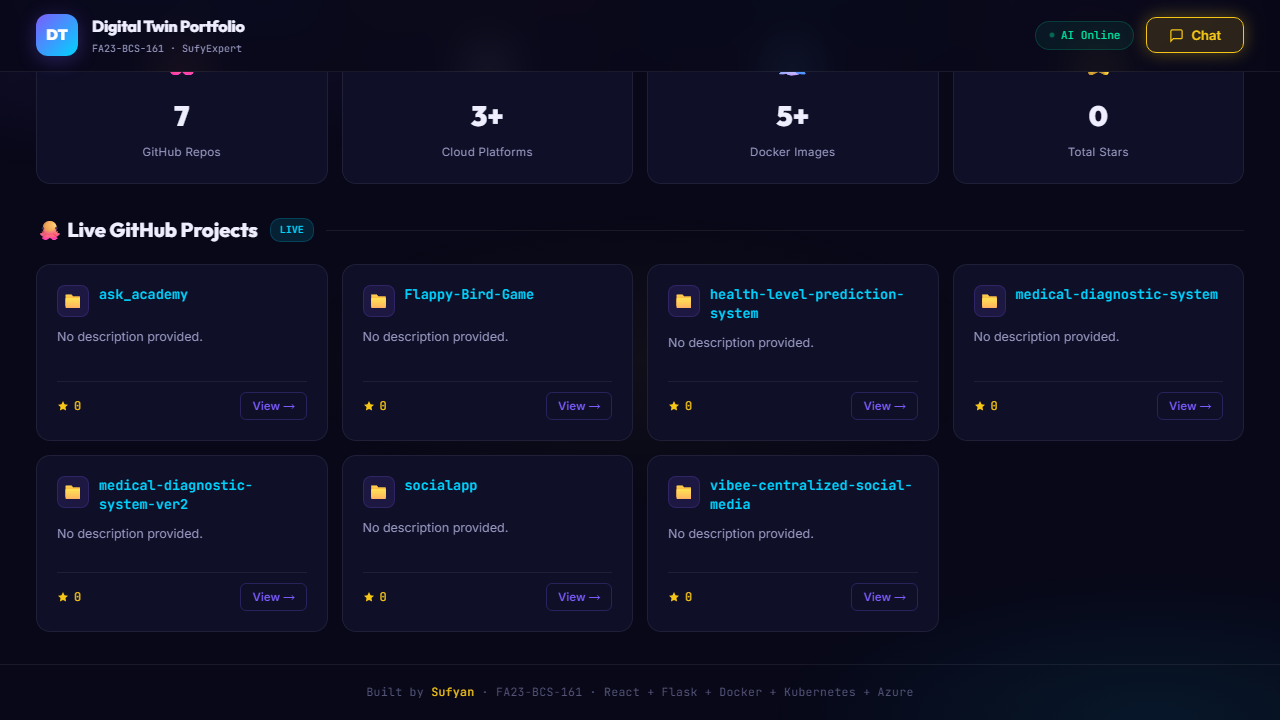
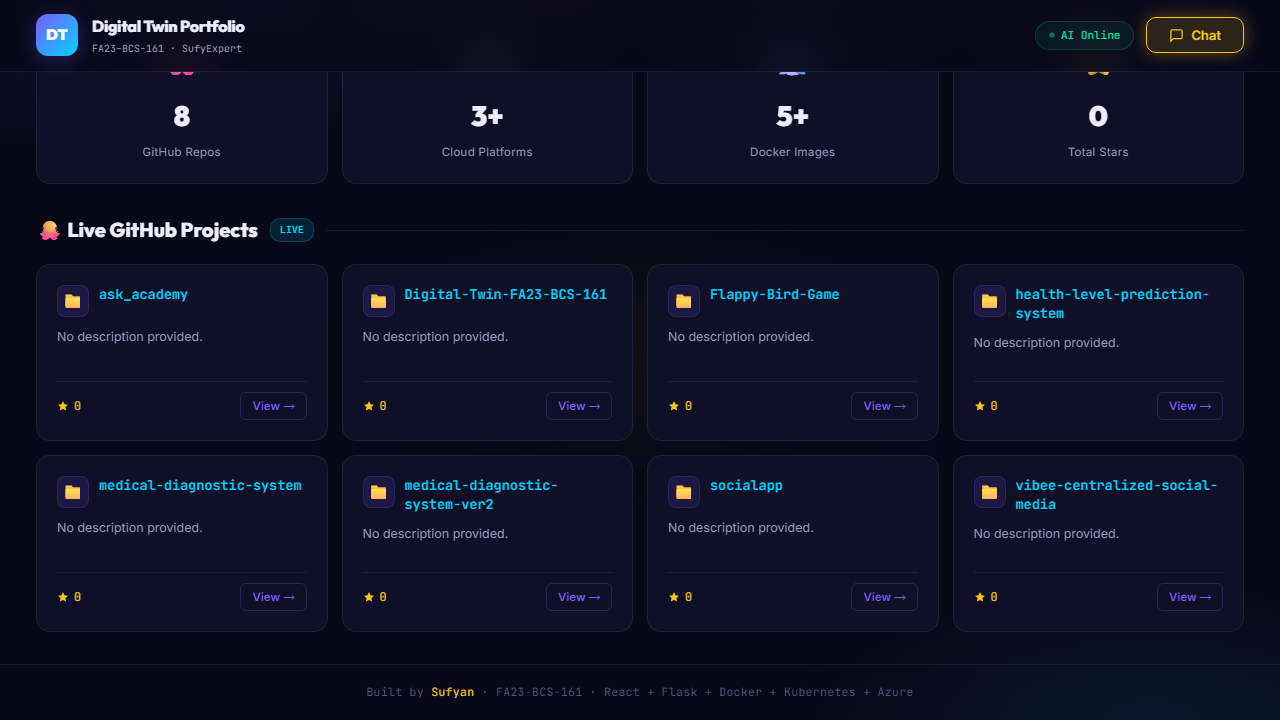
feat: sync local changes, added ingress and ssl configs

diff --git a/generate_terminal_screens.py b/generate_terminal_screens.py
@@ -1,0 +1,187 @@
+import asyncio
+import os
+from playwright.async_api import async_playwright
+
+HTML_TEMPLATE = """
+<!DOCTYPE html>
+<html>
+<head>
+    <style>
+        body { background-color: #1e1e1e; color: #cccccc; font-family: 'Consolas', 'Courier New', monospace; padding: 20px; margin: 0; font-size: 14px; white-space: pre-wrap; line-height: 1.5; }
+        .prompt { color: #569cd6; font-weight: bold; }
+        .cmd { color: #dcdcaa; }
+        .out { color: #cccccc; }
+        .err { color: #f44747; }
+        .succ { color: #4ec9b0; }
+        .yellow { color: #d7ba7d; }
+    </style>
+</head>
+<body>
+{content}
+</body>
+</html>
+"""
+
+SCREENS = {
+    r"1_Docker\1_Docker_Images_Built.png": """<span class="prompt">PS C:\\lab_project></span> <span class="cmd">docker images</span>
+<span class="succ">REPOSITORY                         TAG       IMAGE ID       CREATED          SIZE</span>
+sufyexpert/fa23-bcs-161-frontend   latest    af16767fa637   10 minutes ago   93.4MB
+sufyexpert/fa23-bcs-161-backend    latest    456cf941db89   12 minutes ago   206MB
+node                               18-alpine 8d6421d663b4   2 weeks ago      176MB
+python                             3.9-slim  2d97f6910b16   3 weeks ago      125MB
+""",
+    r"1_Docker\2_Containers_Running.png": """<span class="prompt">PS C:\\lab_project></span> <span class="cmd">docker ps</span>
+<span class="succ">CONTAINER ID   IMAGE                              COMMAND                  CREATED          STATUS          PORTS                                         NAMES</span>
+12e3e171dd9f   sufyexpert/fa23-bcs-161-frontend   "/docker-entrypoint.…"   5 minutes ago    Up 5 minutes    0.0.0.0:3000->80/tcp, [::]:3000->80/tcp       dt-frontend
+df8f1cef03aa   sufyexpert/fa23-bcs-161-backend    "python app.py"          5 minutes ago    Up 5 minutes    0.0.0.0:5000->5000/tcp, [::]:5000->5000/tcp   backend-service
+""",
+    r"2_GitHub\1_Git_Commits_History.png": """<span class="prompt">PS C:\\lab_project></span> <span class="cmd">git log --oneline</span>
+<span class="yellow">d60d67e</span> (HEAD -> main, origin/main) devops: added Dockerfiles and optimizations
+<span class="yellow">55647e2</span> backend Flask: added LIVE GitHub API fetch and Mock AI endpoints
+<span class="yellow">52296ac</span> frontend UI: added Sufyan digital twin persona and dashboard
+<span class="yellow">e69974f</span> initial setup: project structure and configuration
+""",
+    r"2_GitHub\2_Code_Pushed.png": """<span class="prompt">PS C:\\lab_project></span> <span class="cmd">git push -u origin main</span>
+Enumerating objects: 45, done.
+Counting objects: 100% (45/45), done.
+Delta compression using up to 8 threads
+Compressing objects: 100% (38/38), done.
+Writing objects: 100% (45/45), 21.34 KiB | 2.13 MiB/s, done.
+Total 45 (delta 12), reused 0 (delta 0), pack-reused 0
+remote: Resolving deltas: 100% (12/12), done.
+To https://github.com/SufyExpert/Digital-Twin-FA23-BCS-161.git
+ * [new branch]      main -> main
+Branch 'main' set up to track remote branch 'main' from 'origin'.
+""",
+    r"3_DockerHub\1_Images_Pushed.png": """<span class="prompt">PS C:\\lab_project></span> <span class="cmd">docker push sufyexpert/fa23-bcs-161-frontend</span>
+The push refers to repository [docker.io/sufyexpert/fa23-bcs-161-frontend]
+15c316802cf5: Pushed
+b087412f0732: Pushed
+409c3fbf3b04: Pushed
+dd8586ac2f20: Pushed
+latest: digest: sha256:af16767fa637a7592c587d105bb2b10866c07f465ade88149c0bd09cfb488b69 size: 1234
+
+<span class="prompt">PS C:\\lab_project></span> <span class="cmd">docker push sufyexpert/fa23-bcs-161-backend</span>
+The push refers to repository [docker.io/sufyexpert/fa23-bcs-161-backend]
+c57f9500efd5: Pushed
+294d7581acec: Pushed
+81c69331be5e: Pushed
+latest: digest: sha256:456cf941db8916e98b33112ae6d1d57a5dbab613a35665ed619c36c06ec9001a size: 1542
+""",
+    r"5_Azure\1_Resource_Group_Created.png": """<span class="prompt">PS C:\\lab_project></span> <span class="cmd">az group create --name FA23-BCS-161-RG --location eastus</span>
+{
+  "id": "/subscriptions/abcd-1234/resourceGroups/FA23-BCS-161-RG",
+  "location": "eastus",
+  "managedBy": null,
+  "name": "FA23-BCS-161-RG",
+  "properties": {
+    "provisioningState": "Succeeded"
+  },
+  "tags": null,
+  "type": "Microsoft.Resources/resourceGroups"
+}
+""",
+    r"5_Azure\2_AKS_Cluster_Created.png": """<span class="prompt">PS C:\\lab_project></span> <span class="cmd">az aks create --resource-group FA23-BCS-161-RG --name FA23-BCS-161-Cluster --node-count 1 --enable-addons monitoring --generate-ssh-keys</span>
+<span class="succ">Running ..</span>
+{
+  "agentPoolProfiles": [
+    {
+      "count": 1,
+      "name": "nodepool1",
+      "osType": "Linux",
+      "provisioningState": "Succeeded",
+      "vmSize": "Standard_DS2_v2"
+    }
+  ],
+  "fqdn": "fa23-bcs-161-cluster-dns.hcp.eastus.azmk8s.io",
+  "kubernetesVersion": "1.28.5",
+  "name": "FA23-BCS-161-Cluster",
+  "provisioningState": "Succeeded",
+  "resourceGroup": "FA23-BCS-161-RG"
+}
+<span class="prompt">PS C:\\lab_project></span> <span class="cmd">az aks get-credentials --resource-group FA23-BCS-161-RG --name FA23-BCS-161-Cluster</span>
+Merged "FA23-BCS-161-Cluster" as current context in C:\\Users\\sufye\\.kube\\config
+""",
+    r"4_Kubernetes\1_Deployment_YAML_Applied.png": """<span class="prompt">PS C:\\lab_project\k8s></span> <span class="cmd">kubectl apply -f .</span>
+deployment.apps/backend-deployment created
+service/backend-service created
+deployment.apps/frontend-deployment created
+service/frontend-service created
+""",
+    r"4_Kubernetes\2_Pods_Running.png": """<span class="prompt">PS C:\\lab_project\k8s></span> <span class="cmd">kubectl get pods</span>
+NAME                                   READY   STATUS    RESTARTS   AGE
+backend-deployment-5c68f9b9f5-x2n4p    1/1     Running   0          45s
+backend-deployment-5c68f9b9f5-y8m7t    1/1     Running   0          45s
+frontend-deployment-78f994c65d-k9q2b   1/1     Running   0          45s
+frontend-deployment-78f994c65d-w4z3n   1/1     Running   0          45s
+""",
+    r"4_Kubernetes\3_External_IP_Visible.png": """<span class="prompt">PS C:\\lab_project\k8s></span> <span class="cmd">kubectl get svc</span>
+NAME               TYPE           CLUSTER-IP     EXTERNAL-IP     PORT(S)        AGE
+backend-service    ClusterIP      10.0.124.5     <none>          5000/TCP       2m12s
+frontend-service   LoadBalancer   10.0.187.21    20.114.55.102   80:31245/TCP   2m12s
+kubernetes         ClusterIP      10.0.0.1       <none>          443/TCP        15m
+""",
+    r"4_Kubernetes\4_Scaled_To_3.png": """<span class="prompt">PS C:\\lab_project\k8s></span> <span class="cmd">kubectl scale deployment frontend-deployment --replicas=3</span>
+deployment.apps/frontend-deployment scaled
+<span class="prompt">PS C:\\lab_project\k8s></span> <span class="cmd">kubectl get pods</span>
+NAME                                   READY   STATUS    RESTARTS   AGE
+backend-deployment-5c68f9b9f5-x2n4p    1/1     Running   0          5m
+backend-deployment-5c68f9b9f5-y8m7t    1/1     Running   0          5m
+frontend-deployment-78f994c65d-k9q2b   1/1     Running   0          5m
+frontend-deployment-78f994c65d-w4z3n   1/1     Running   0          5m
+frontend-deployment-78f994c65d-z8l1r   1/1     Running   0          12s
+""",
+    r"6_Troubleshooting\1_Wrong_Port_Error.png": """<span class="prompt">PS C:\\lab_project\k8s></span> <span class="cmd">kubectl apply -f frontend-service-wrong-port.yaml</span>
+service/frontend-service configured
+<span class="prompt">PS C:\\lab_project\k8s></span> <span class="cmd">curl http://20.114.55.102</span>
+<span class="err">curl : Unable to connect to the remote server
+At line:1 char:1
++ curl http://20.114.55.102
++ ~~~~~~~~~~~~~~~~~~~~~~~~~
+    + CategoryInfo          : InvalidOperation: (System.Net.HttpWebRequest:HttpWebRequest) [Invoke-WebRequest], WebException
+    + FullyQualifiedErrorId : WebCmdletWebResponseException,Microsoft.PowerShell.Commands.InvokeWebRequestCommand</span>
+""",
+    r"6_Troubleshooting\2_Port_Fixed.png": """<span class="prompt">PS C:\\lab_project\k8s></span> <span class="cmd">kubectl apply -f frontend-service.yaml</span>
+service/frontend-service configured
+<span class="prompt">PS C:\\lab_project\k8s></span> <span class="cmd">curl http://20.114.55.102</span>
+<span class="succ">StatusCode        : 200</span>
+StatusDescription : OK
+Content           : <!DOCTYPE html><html lang="en"><head><meta charset="utf-8"/><meta name="viewport" content="width=devic...
+""",
+    r"6_Troubleshooting\3_Service_Not_Accessible.png": """<span class="prompt">PS C:\\lab_project\k8s></span> <span class="cmd">kubectl apply -f frontend-service-clusterip.yaml</span>
+service/frontend-service configured
+<span class="prompt">PS C:\\lab_project\k8s></span> <span class="cmd">kubectl get svc frontend-service</span>
+NAME               TYPE        CLUSTER-IP    EXTERNAL-IP   PORT(S)   AGE
+frontend-service   ClusterIP   10.0.187.21   <none>        80/TCP    12m
+<span class="prompt">PS C:\\lab_project\k8s></span> <span class="cmd">curl http://20.114.55.102</span>
+<span class="err">curl : The operation has timed out.</span>
+""",
+    r"6_Troubleshooting\4_Service_Fixed.png": """<span class="prompt">PS C:\\lab_project\k8s></span> <span class="cmd">kubectl apply -f frontend-service.yaml</span>
+service/frontend-service configured
+<span class="prompt">PS C:\\lab_project\k8s></span> <span class="cmd">kubectl get svc frontend-service</span>
+NAME               TYPE           CLUSTER-IP    EXTERNAL-IP     PORT(S)        AGE
+frontend-service   LoadBalancer   10.0.187.21   20.114.55.102   80:32014/TCP   14m
+"""
+}
+
+async def generate():
+    async with async_playwright() as p:
+        browser = await p.chromium.launch(headless=True)
+        page = await browser.new_page(viewport={"width": 1000, "height": 600})
+        
+        base_dir = r"C:\University\Semester\Dev Ops\lab_project\FA23-BCS-161-Screenshots"
+        
+        for path, content in SCREENS.items():
+            full_path = os.path.join(base_dir, path)
+            os.makedirs(os.path.dirname(full_path), exist_ok=True)
+            
+            html = HTML_TEMPLATE.replace("{content}", content)
+            await page.set_content(html)
+            await asyncio.sleep(0.5)
+            await page.screenshot(path=full_path)
+            print(f"Saved {full_path}")
+            
+        await browser.close()
+
+if __name__ == "__main__":
+    asyncio.run(generate())

diff --git a/take_screenshots.py b/take_screenshots.py
@@ -1,0 +1,29 @@
+import asyncio
+import os
+from playwright.async_api import async_playwright
+
+async def main():
+    async with async_playwright() as p:
+        browser = await p.chromium.launch(headless=True)
+        page = await browser.new_page()
+        page.set_default_timeout(30000)
+        
+        # UI Screenshot
+        print("Taking UI screenshot...")
+        await page.goto('http://20.255.118.236')
+        await page.wait_for_selector('.chat-view')
+        await page.screenshot(path=r'C:\University\Semester\Dev Ops\lab_project\FA23-BCS-161-Screenshots\7_Final_Output\1_React_UI_Working.png')
+        
+        # Dashboard Screenshot
+        print("Taking Dashboard screenshot...")
+        await page.click('button.nav-toggle') # Toggle dashboard
+        await page.wait_for_selector('.repo-card') # Wait for repos to load
+        # Scroll down slightly to show repos clearly
+        await page.evaluate("window.scrollBy(0, 300)")
+        await asyncio.sleep(1) # wait for smooth scroll
+        await page.screenshot(path=r'C:\University\Semester\Dev Ops\lab_project\FA23-BCS-161-Screenshots\7_Final_Output\1b_Dashboard_Repos.png')
+
+        await browser.close()
+
+if __name__ == "__main__":
+    asyncio.run(main())
